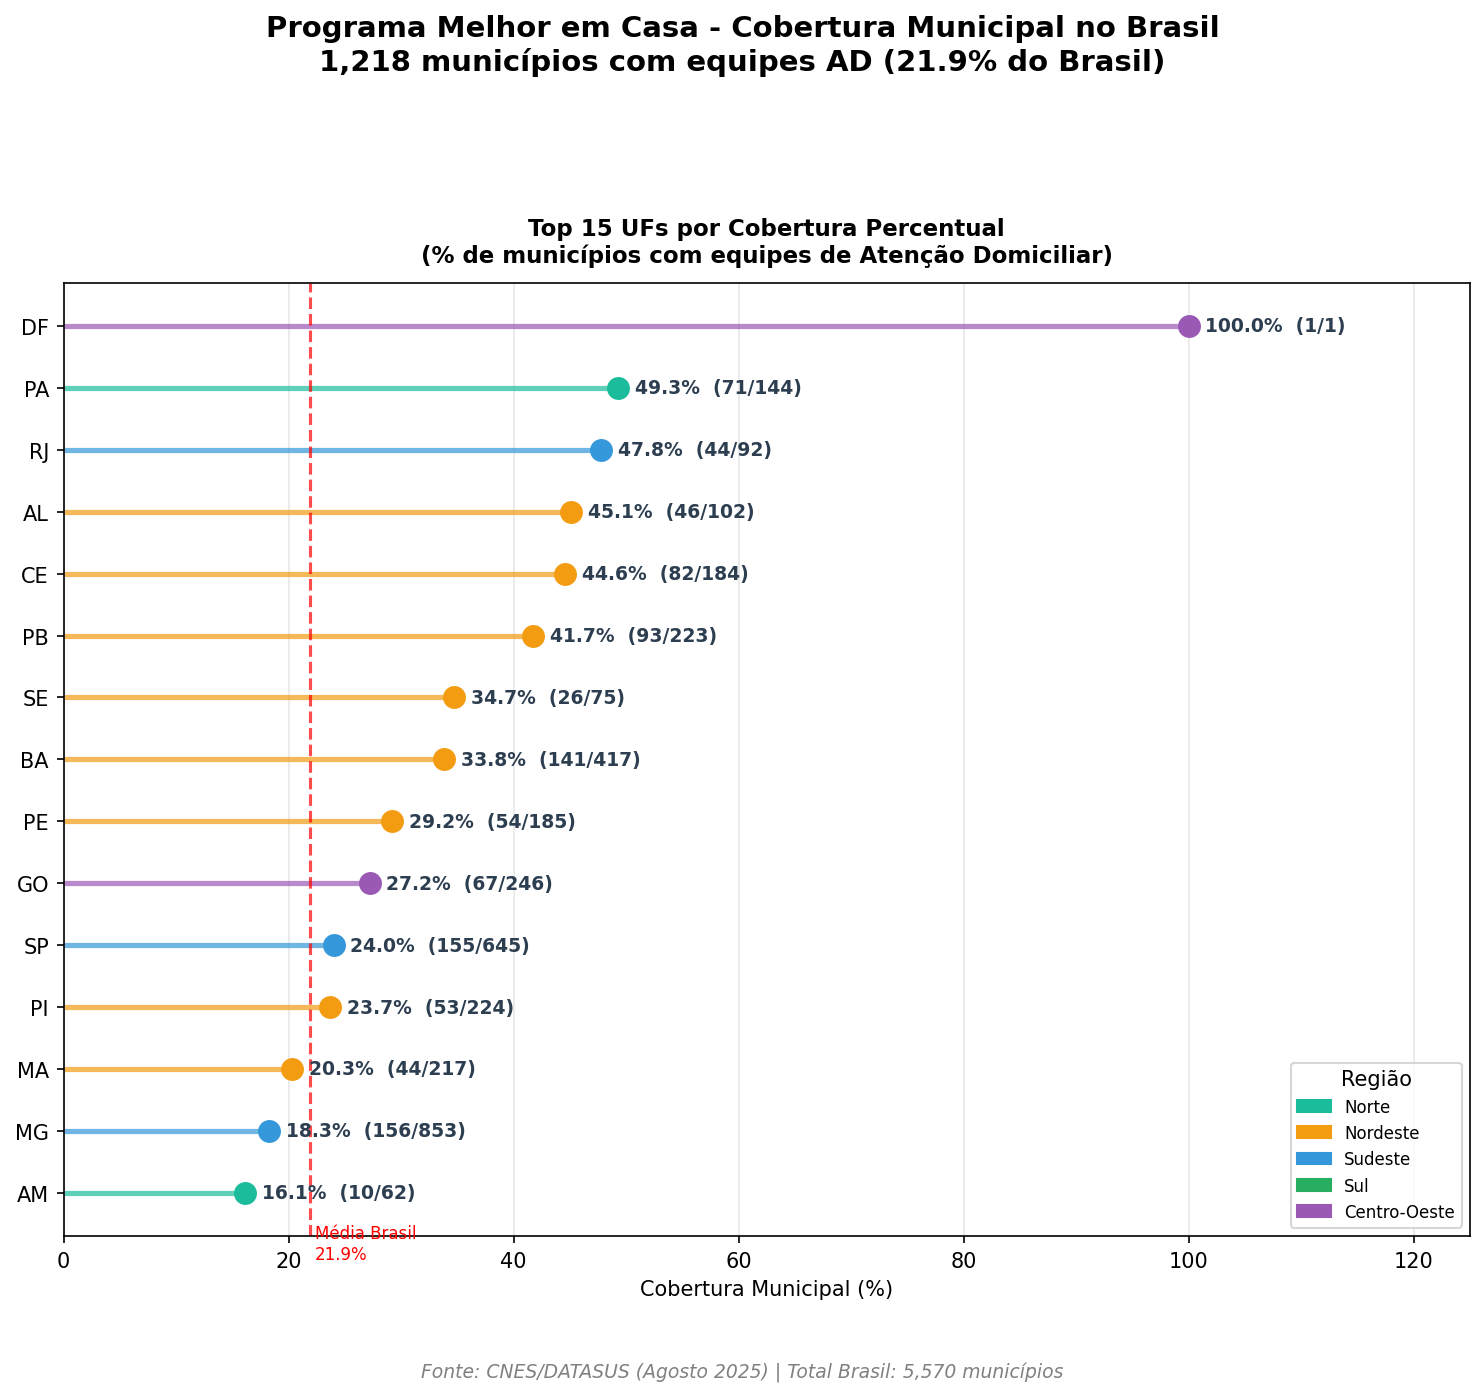
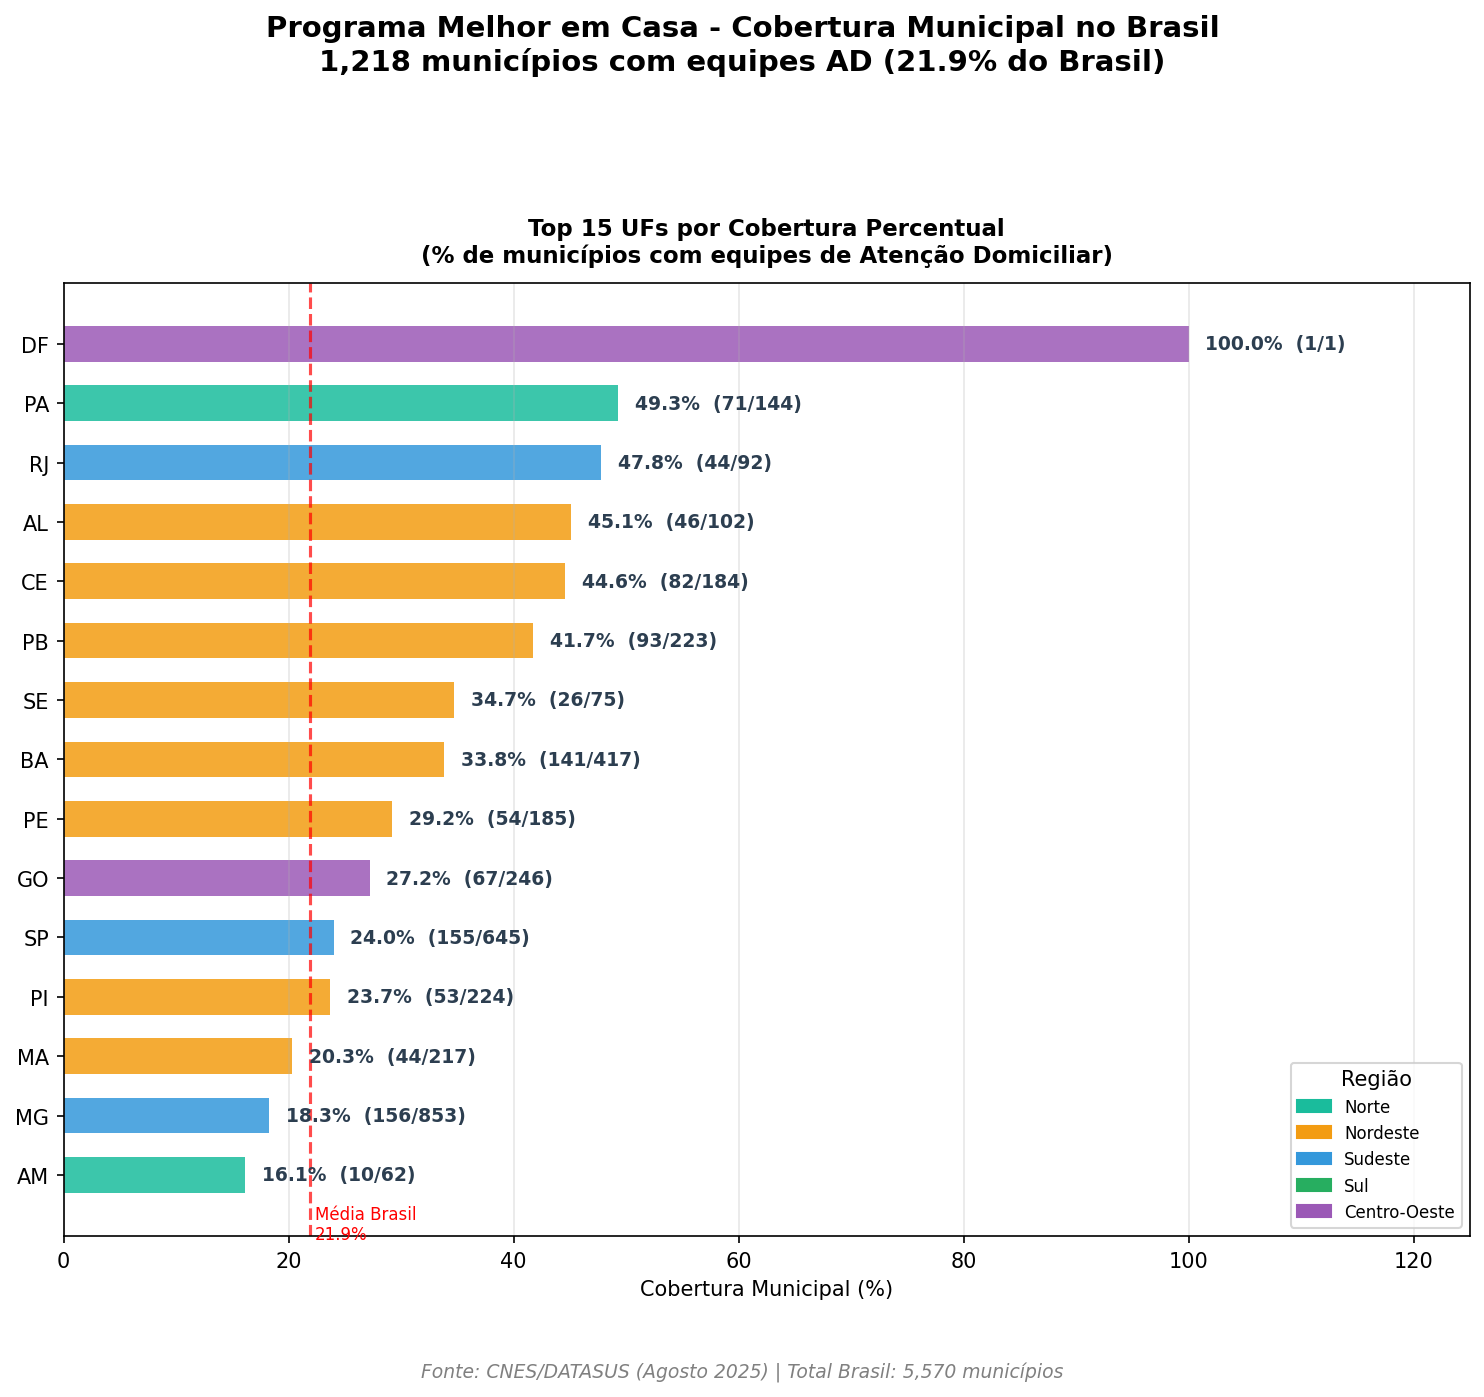
fix(PARTE4): trocar lollipop por barras horizontais na cobertura

Changed region(s): [[0.0, 0.2155, 0.8989, 0.9234]]

diff --git a/Outputs&Codigo/PARTE4/scripts/analise_nacional_brasil_v2.py b/Outputs&Codigo/PARTE4/scripts/analise_nacional_brasil_v2.py
@@ -340,11 +340,10 @@ def main():
     y_pos = np.arange(len(top_ufs_pct))
     cores_uf_cob = [cores_regiao[UF_REGIAO[uf]] for uf in top_ufs_pct['UF']]
     
-    # Lollipop chart: linha + ponto
+    # Barras horizontais da porcentagem de cobertura
+    ax1.barh(y_pos, top_ufs_pct['COBERTURA_%'], color=cores_uf_cob, alpha=0.85, height=0.6)
+    
     for i, (_, row) in enumerate(top_ufs_pct.iterrows()):
-        cor = cores_regiao[UF_REGIAO[row['UF']]]
-        ax1.hlines(y=i, xmin=0, xmax=row['COBERTURA_%'], color=cor, linewidth=2.5, alpha=0.7)
-        ax1.plot(row['COBERTURA_%'], i, 'o', color=cor, markersize=10, zorder=5)
         ax1.text(row['COBERTURA_%'] + 1.5, i, 
                  f"{row['COBERTURA_%']:.1f}%  ({int(row['MUN_COM_AD'])}/{int(row['MUN_TOTAL'])})", 
                  va='center', fontsize=9, fontweight='bold', color='#2c3e50')
